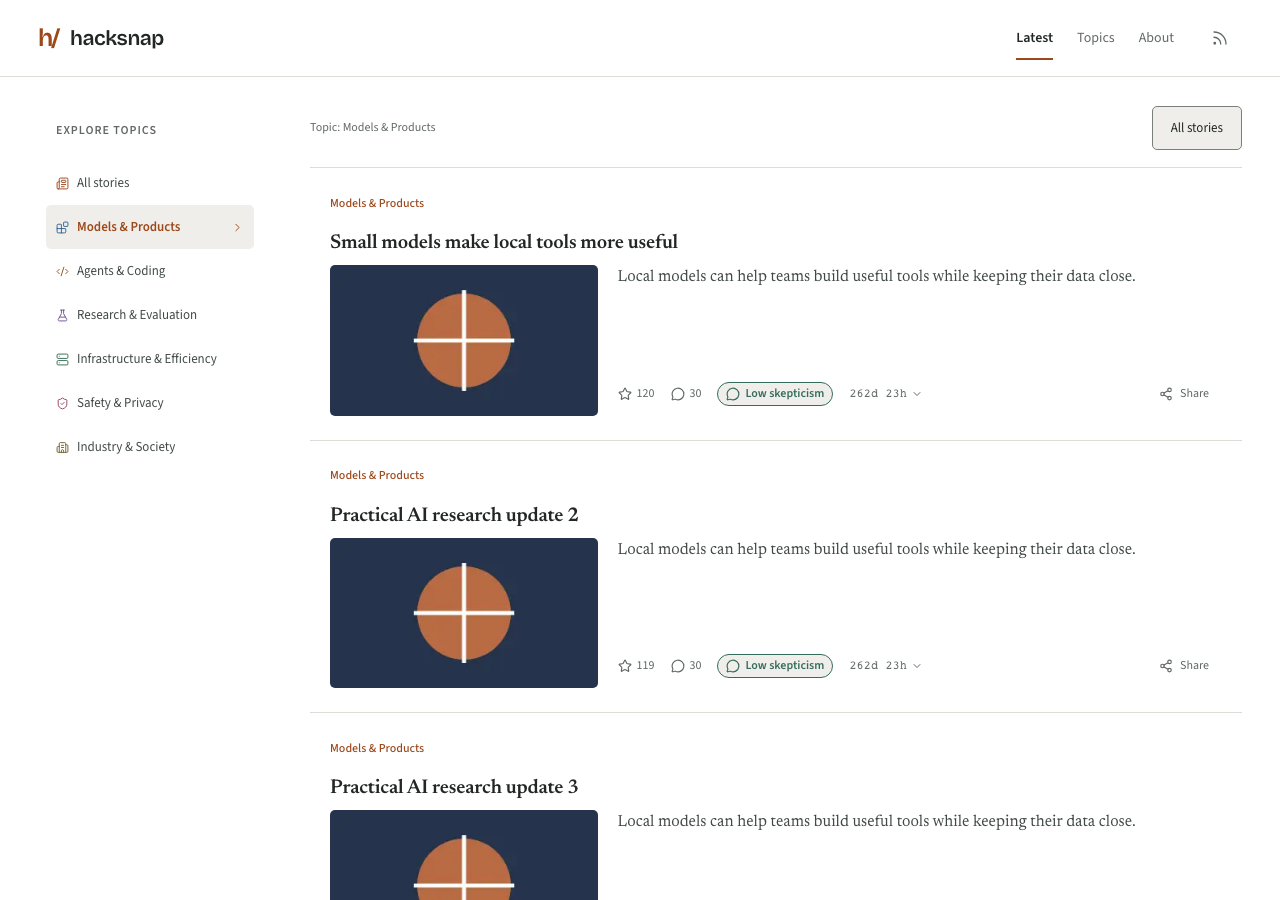
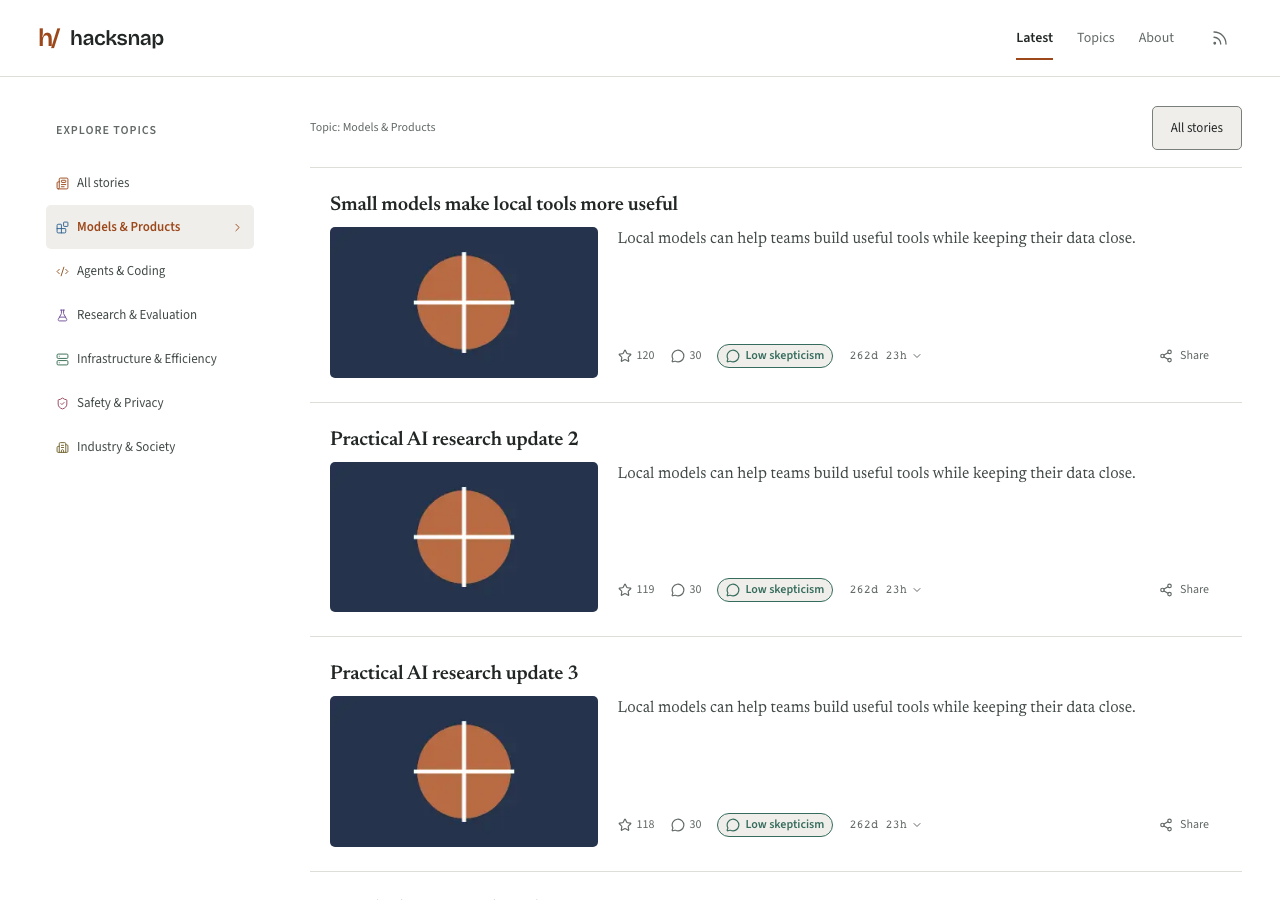
Track filtered feed visits and preserve topic card settings

diff --git a/hacksnap/web/e2e/journeys.spec.ts b/hacksnap/web/e2e/journeys.spec.ts
@@ -581,3 +581,33 @@ for (const returnName of ["Models & Products", "Back to Models & Products · pag
     await expect.poll(() => page.evaluate(() => Math.abs(window.scrollY - 900))).toBeLessThan(4);
   });
 }
+
+test("category-only navigation and history create distinct analytics visits", async ({ page }) => {
+  const visits = () =>
+    page.evaluate(() => {
+      const layer = (window as Window & { dataLayer?: Array<ArrayLike<unknown>> }).dataLayer ?? [];
+      return layer
+        .map((row) => Array.from(row))
+        .filter((row) => row[0] === "event" && row[1] === "reader_visit")
+        .map((row) => (row[2] as { visit_id: string }).visit_id);
+    });
+  await page.goto("/");
+  await expect.poll(async () => (await visits()).length).toBe(1);
+  const topics = page.getByRole("navigation", { name: "Topics", exact: true });
+  await topics.getByRole("link", { name: "Models & Products", exact: true }).click();
+  await expect(page).toHaveURL(/category=models-products$/);
+  await expect.poll(async () => (await visits()).length).toBe(2);
+  await topics.getByRole("link", { name: "Agents & Coding", exact: true }).click();
+  await expect(page).toHaveURL(/category=agents-coding$/);
+  await expect.poll(async () => (await visits()).length).toBe(3);
+  await page.goBack();
+  await expect(page).toHaveURL(/category=models-products$/);
+  await expect.poll(async () => (await visits()).length).toBe(4);
+  await page.goForward();
+  await expect(page).toHaveURL(/category=agents-coding$/);
+  await expect.poll(async () => (await visits()).length).toBe(5);
+  await page.getByRole("link", { name: "All stories (clear topic filter)" }).click();
+  await expect(page).toHaveURL(/\/$/);
+  await expect.poll(async () => (await visits()).length).toBe(6);
+  expect(new Set(await visits()).size).toBe(6);
+});

diff --git a/hacksnap/web/lib/analytics.ts b/hacksnap/web/lib/analytics.ts
@@ -112,11 +112,21 @@ const journey = createJourney(
 
 type Event = Params & { name: JourneyEvent };
 
+// Query-only navigation is a new route occurrence. Journey handoff tokens are
+// transient; keep them out of the identity and never emit query values as fields.
+export function analyticsRouteIdentity(pathname: string, search = ""): string {
+  const query = new URLSearchParams(search);
+  query.delete("journey");
+  query.sort();
+  const state = query.toString();
+  return state ? `${pathname}?${state}` : pathname;
+}
+
 export function track(event: JourneyEvent | Event, params: Params = {}, once?: string) {
   const { name, ...fields } = typeof event === "string" ? { name: event, ...params } : event;
   if (typeof window === "undefined") return;
   try {
-    journey.route(window.location.pathname);
+    journey.route(analyticsRouteIdentity(window.location.pathname, window.location.search));
     journey.emit(name, fields, once);
   } catch {
     /* Includes unavailable browser APIs and blocked analytics. */

diff --git a/hacksnap/web/app/journey-analytics.tsx b/hacksnap/web/app/journey-analytics.tsx
@@ -1,16 +1,18 @@
 "use client";
 
 import { useEffect, useRef, type ReactNode } from "react";
-import { usePathname } from "next/navigation";
-import { recordVisit, track } from "../lib/analytics";
+import { usePathname, useSearchParams } from "next/navigation";
+import { analyticsRouteIdentity, recordVisit, track } from "../lib/analytics";
 import { markStoryOpened } from "../lib/story-history";
 import { storyIdFromSlug } from "../lib/story-url";
 
 export function ReaderVisit() {
   const path = usePathname();
+  const search = useSearchParams();
+  const route = analyticsRouteIdentity(path, search.toString());
   useEffect(() => {
     track("reader_visit", {}, "visit");
-  }, [path]);
+  }, [route]);
   useEffect(() => {
     recordVisit();
     function storyClick(event: MouseEvent) {

diff --git a/hacksnap/web/e2e/visual.spec.ts b/hacksnap/web/e2e/visual.spec.ts
@@ -28,7 +28,7 @@ for (const width of [320, 1280])
           const latest = route === "/" || route.startsWith("/?category=");
           if (latest) await expect(page.getByRole("heading", { level: 1 })).toBeAttached();
           else await expect(page.getByRole("heading", { level: 1 })).toBeVisible();
-          if (route.startsWith("/category/")) {
+          if (route.startsWith("/?category=")) {
             await expect(page.locator(".story-list .category-badge")).toHaveCount(0);
             await expect(page.locator(".story-list .story-context")).toHaveCount(0);
           } else if (latest || route === "/2026/01") {

diff --git a/hacksnap/web/app/layout.tsx b/hacksnap/web/app/layout.tsx
@@ -1,3 +1,4 @@
+import { Suspense } from "react";
 import type { Metadata } from "next";
 import Link from "next/link";
 import { Rss } from "lucide-react";
@@ -82,7 +83,9 @@ export default function Layout({ children }: { children: React.ReactNode }) {
         <Script id="google-analytics" strategy="beforeInteractive">
           {analyticsBootstrap}
         </Script>
-        <ReaderVisit />
+        <Suspense fallback={null}>
+          <ReaderVisit />
+        </Suspense>
         <a className="skip-link skip-main" href="#main">
           Skip to content
         </a>

diff --git a/hacksnap/web/app/archive-story-list.tsx b/hacksnap/web/app/archive-story-list.tsx
@@ -34,6 +34,7 @@ export async function ArchiveStoryList({
     <StoryFeed
       key={`${listingPath}:${page}`}
       listingPath={listingPath}
+      showCategory={!category}
       initialStories={response.value.stories.map(publicFeedStory)}
       initialPagination={browsePagination(page, response.value.hasNext)}
       emptyState={

diff --git a/hacksnap/web/README.md b/hacksnap/web/README.md
@@ -837,3 +837,11 @@ CI stores screenshots, failure traces and route measurements for 14 days. See
 [`docs/performance/issue-148-browser-regressions.md`](../../docs/performance/issue-148-browser-regressions.md)
 for scenario coverage, measurement definitions, budget review and the release
 screen-reader checklist. The existing Jest and production build jobs remain gates.
+
+Category-only and paginated navigations use pathname plus sorted search parameters
+as the analytics route identity, shared by ReaderVisit and event tracking. Each
+route occurrence gets a new visit ID and reader_visit; rerenders and reordered
+query parameters deduplicate. Transient journey tokens are excluded, and query
+values are never added to engagement event fields. Filtered feeds retain the
+category-card preference from main: category labels appear on Latest and dated
+feeds and are hidden on a selected topic’s cards.

diff --git a/docs/ux/2026-10-05/category-latest-filter/README.md b/docs/ux/2026-10-05/category-latest-filter/README.md
@@ -18,3 +18,7 @@ The UI retains the site's light appearance under both OS settings.
 
 The existing category/page data cache and indexed query remain unchanged.
 No production latency or database-load improvement is claimed.
+
+Filtered cards hide their category labels, matching the current topic-card
+setting. Analytics regression tests verify query-only topic navigation and
+Back/Forward each create a distinct reader visit and visit ID.
